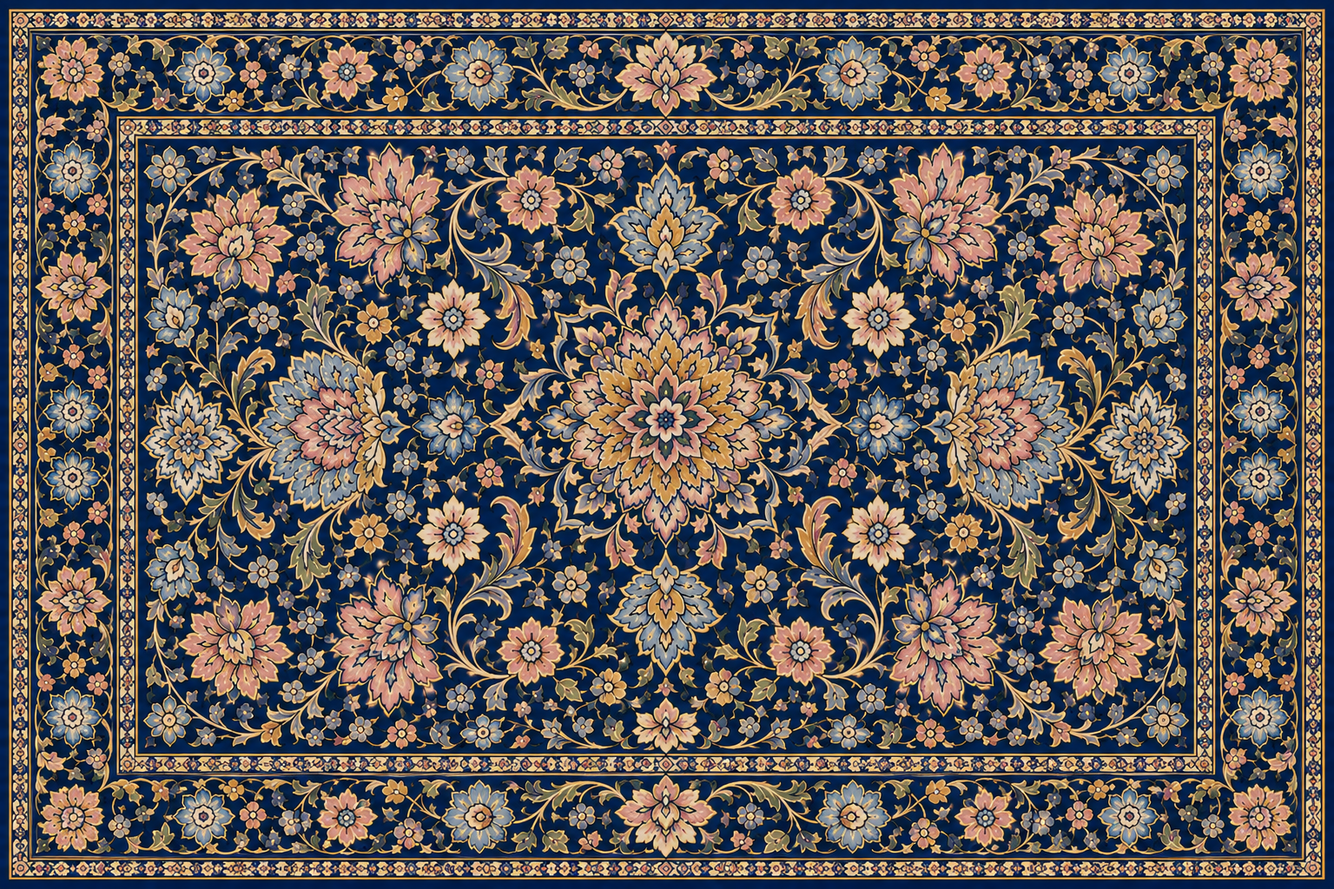
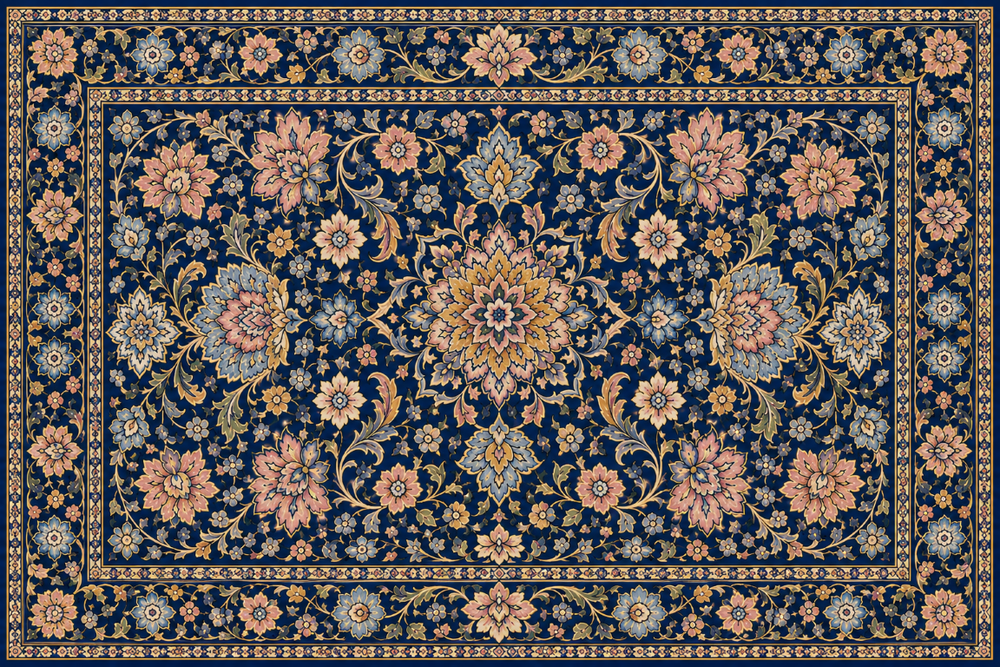
updated hero image and some text

diff --git a/app/about/page.tsx b/app/about/page.tsx
@@ -2,7 +2,7 @@ import type { Metadata } from "next";
 import { content } from "@/lib/content";
 import ArtworkImage from "@/components/ArtworkImage";
 
-export const metadata: Metadata = { title: `about — ${content.site.title}` };
+export const metadata: Metadata = { title: `about - ${content.site.title}` };
 
 export default function AboutMeView() {
   const { site } = content;
@@ -35,13 +35,19 @@ export default function AboutMeView() {
                 rel="noopener noreferrer"
                 className="mt-1.5 block text-lg text-steel underline-offset-4 hover:underline"
               >
-                Instagram — @sbhphotographyaccount
+                Instagram - {new URL(site.contact.instagram).pathname.replace(/^\/+|\/+$/g, '')}
               </a>
             )}
-            {!site.contact.email && (
-              <p className="mt-1 text-[15px] text-ink-muted">
-                Business email coming soon
-              </p>
+            {
+              site.contact.email && (
+                <a
+                href={site.contact.email}
+                target="_blank"
+                rel="noopener noreferrer"
+                className="mt-1.5 block text-lg text-steel underline-offset-4 hover:underline"
+              >
+                Email - {site.contact.email}
+              </a>
             )}
           </div>
         </div>

diff --git a/docs/saadbhattistudioPlan.md b/docs/saadbhattistudioPlan.md
@@ -94,3 +94,14 @@ Holds a hi-res image of the ArtWork and holds the name.
 
 Those were some of my component and layout ideas. Remember, this is a rough draft, I am not familiar with Front-End and I’m sure i’m missing many things. Please help me refine this plan and fill out the information gaps that you need to execute this plan cleanly.
 
+
+==========================================================================================================================
+
+# Phase 1 Plan
+
+Here are some Ideas I have for phase 1:
+* An Admin User, which gets certain features/abilities.:
+	* The ability to modify titles and metadata of Images.
+	* The ability to modify image order inside a collection. Maybe a right sidebar pops up when in Collection View in which I can drag and modify the order of images. There should be an 'apply changes' button that pushes the changes to Cloudinary API.
+
+* Lets use typescript and nodejs for the backend. If we need to save modified data before pushing, we could use a lightweight DB. Would that work with vercel hosting?
